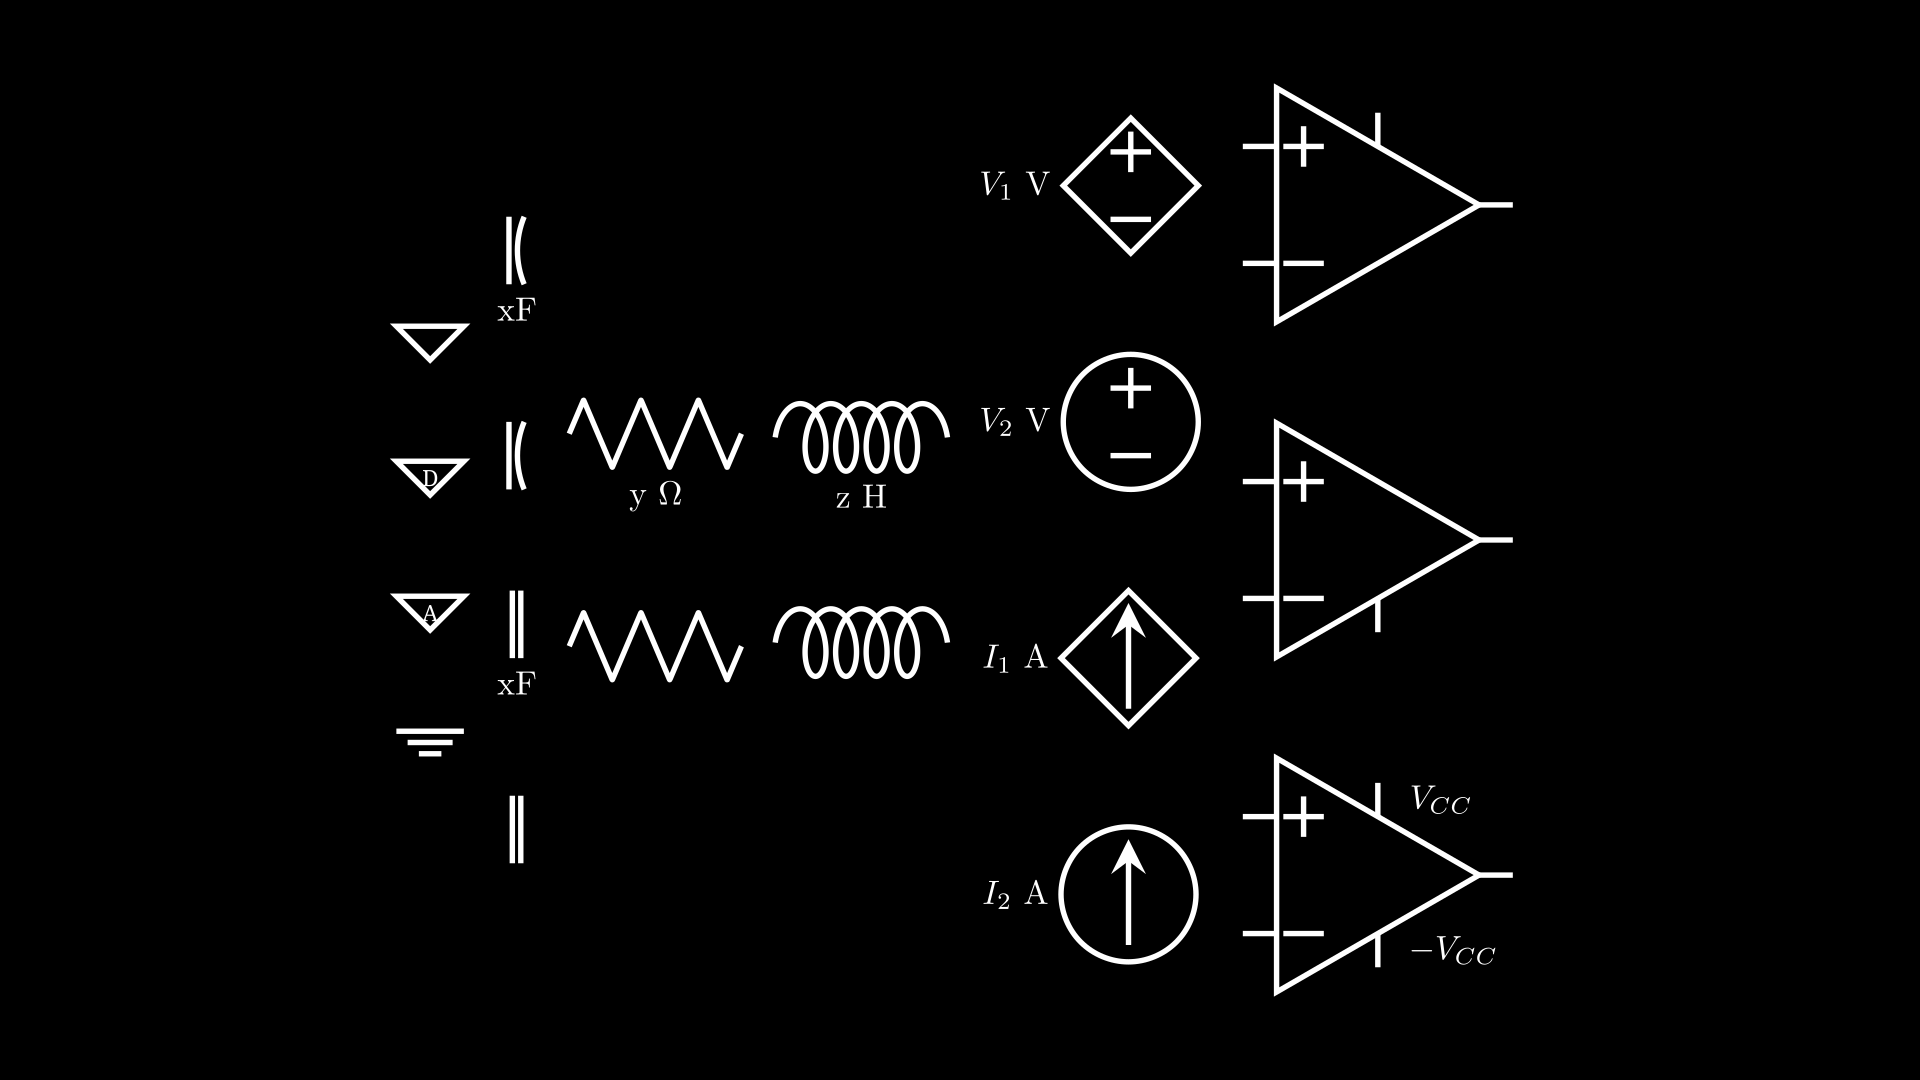
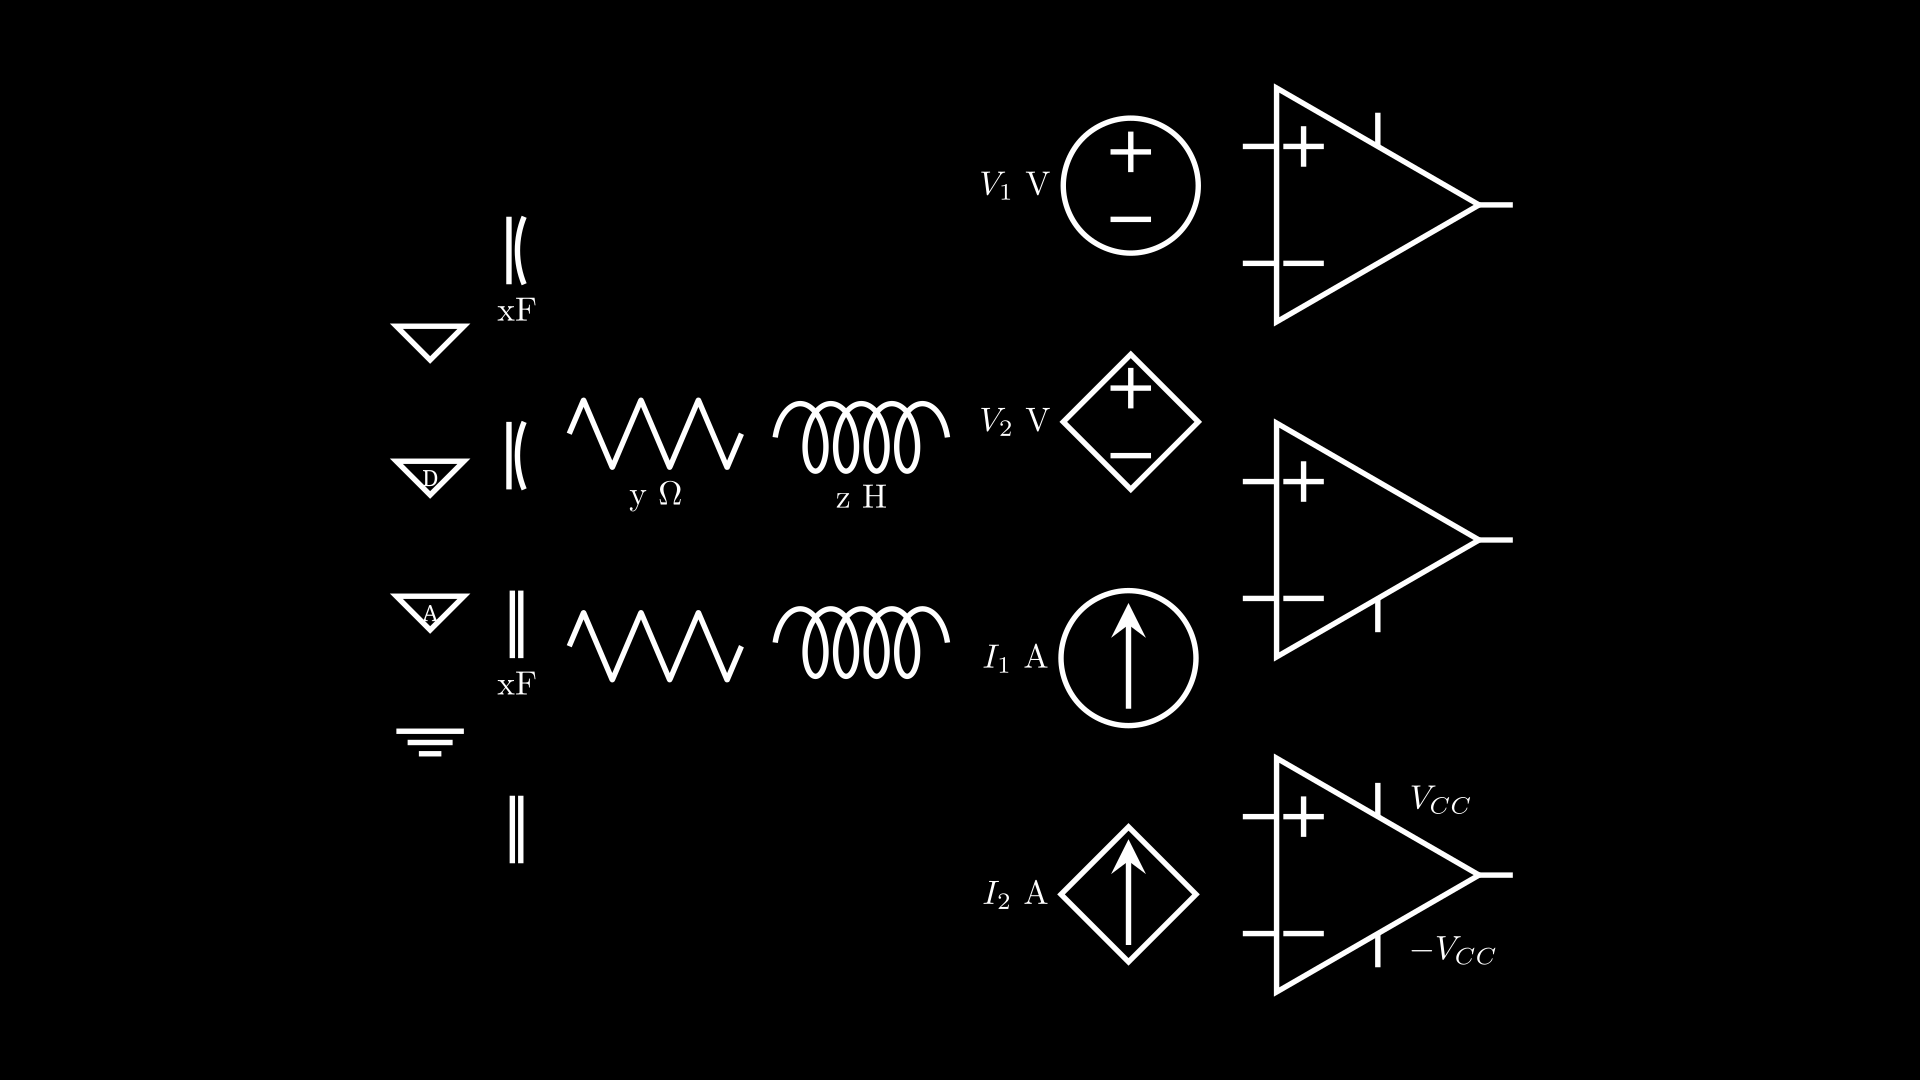
fixed a few bugs in the library, and removed pins off capacitor

diff --git a/src/manim_circuit/manim_circuit.py b/src/manim_circuit/manim_circuit.py
@@ -1,4 +1,5 @@
 from manim import *
+import math
 
 
 class Inductor(VMobject):
@@ -342,28 +343,26 @@ class Source(VMobject):
         value,
         label=True,
         direction=LEFT,
-        dependent=False,
+        dependent=True,
         **kwargs,
     ):
         # initialize the vmobject
         super().__init__(**kwargs)
         self._direction = direction
 
-        if dependent is True or type(value) is int or type(value) is float:
-            self.main_body = VGroup(
-                Circle().set_stroke(WHITE),
-            )
+        # If value is a number or override dependent is False
+        if dependent is False or type(value) is int or type(value) is float:
+            self.main_body = Circle().set_stroke(WHITE)
         else:
-            self.main_body = VGroup(
+            self.main_body = (
                 Square().set_stroke(WHITE).rotate(45 * DEGREES).scale(1 / np.sqrt(2))
             )
 
-        # Add the middle symbols first
-        self.add(mobject_group.scale(0.5))
+        # Add the scaled symbols first
+        self.add(mobject_group.scale(0.5, about_point=self.main_body.get_center()))
 
-        # scale it down first and then add it onto the VMobject
-        self.main_body.scale(0.5)
-        self.add(self.main_body)
+        # Scale it down first and then add it onto the VMobject
+        self.add(self.main_body.scale(0.5))
 
         if label:
             self.label = (
@@ -402,21 +401,25 @@ class Source(VMobject):
 
 
 class VoltageSource(Source):
-    def __init__(self, value=1, label=True, direction=LEFT, dependent=False, **kwargs):
+    def __init__(self, value=1, label=True, direction=LEFT, dependent=True, **kwargs):
         # + and -
         markings = VGroup()
         markings.add(Line(DOWN * 0.3, UP * 0.3).shift(UP * 0.5))
         markings.add(Line(LEFT * 0.3, RIGHT * 0.3).shift(UP * 0.5))
         markings.add(Line(LEFT * 0.3, RIGHT * 0.3).shift(DOWN * 0.5))
 
-        super().__init__(markings, letter="V", value=value, **kwargs)
+        super().__init__(
+            markings, letter="V", value=value, dependent=dependent, **kwargs
+        )
 
 
 class CurrentSource(Source):
-    def __init__(self, value=1, label=True, direction=LEFT, dependent=False, **kwargs):
+    def __init__(self, value=1, label=True, direction=LEFT, dependent=True, **kwargs):
         # Arrow
         markings = Line(DOWN * 0.75, UP * 0.75).add_tip(tip_shape=StealthTip)
-        super().__init__(markings, letter="A", value=value, **kwargs)
+        super().__init__(
+            markings, letter="A", value=value, dependent=dependent, **kwargs
+        )
 
 
 class Circuit(VMobject):
@@ -439,9 +442,6 @@ class Circuit(VMobject):
         for component in args:
             self.component_list.add(component)
 
-    # line_intersection annoyingly (but true to its name),
-    # will get the intersection between two lines. NOT segments
-    # which is unfortunate, considering that's what "wires" are.
     def validate_line_intersection(self, l1, l2):
         try:
             preliminary_result = line_intersection(l1, l2)
@@ -458,55 +458,93 @@ class Circuit(VMobject):
         y_range2 = [l2[0][1], l2[1][1]]
         y_range2.sort()
 
+        tolerance = 1e-4
+
         # TODO In the future, ideally a different implementation that's
         # a bit more mathematical, (and less brute-force) will be used
         if (
             (
                 (
                     x_range1[1] > preliminary_result[0]
-                    or np.allclose([preliminary_result[0]], [x_range1[1]])
+                    or math.isclose(
+                        preliminary_result[0],
+                        x_range1[1],
+                        rel_tol=tolerance,
+                    )
                 )
                 and (
                     preliminary_result[0] > x_range1[0]
-                    or np.allclose([preliminary_result[0]], [x_range1[0]])
+                    or math.isclose(
+                        preliminary_result[0],
+                        x_range1[0],
+                        rel_tol=tolerance,
+                    )
                 )
             )
             and (
                 (
                     x_range2[1] > preliminary_result[0]
-                    or np.allclose([preliminary_result[0]], [x_range2[1]])
+                    or math.isclose(
+                        preliminary_result[0],
+                        x_range2[1],
+                        rel_tol=tolerance,
+                    )
                 )
                 and (
                     preliminary_result[0] > x_range2[0]
-                    or np.allclose([preliminary_result[0]], [x_range2[0]])
+                    or math.isclose(
+                        preliminary_result[0],
+                        x_range2[0],
+                        rel_tol=tolerance,
+                    )
                 )
             )
             and (
                 (
                     y_range1[1] > preliminary_result[1]
-                    or np.allclose([preliminary_result[1]], [y_range1[1]])
+                    or math.isclose(
+                        preliminary_result[1],
+                        y_range1[1],
+                        rel_tol=tolerance,
+                    )
                 )
                 and (
                     preliminary_result[1] > y_range1[0]
-                    or np.allclose([preliminary_result[1]], [y_range1[0]])
+                    or math.isclose(
+                        preliminary_result[1],
+                        y_range1[0],
+                        rel_tol=tolerance,
+                    )
                 )
             )
             and (
                 (
                     y_range2[1] > preliminary_result[1]
-                    or np.allclose([y_range2[1]], [preliminary_result[1]])
+                    or math.isclose(
+                        y_range2[1],
+                        preliminary_result[1],
+                        rel_tol=tolerance,
+                    )
                 )
                 and (
                     preliminary_result[1] > y_range2[0]
-                    or np.allclose([preliminary_result[1]], [y_range2[0]])
+                    or math.isclose(
+                        preliminary_result[1],
+                        y_range2[0],
+                        rel_tol=tolerance,
+                    )
                 )
             )
             # Check if the intersection lies on one of the ends
             and (
-                np.allclose(l1[0], preliminary_result)
-                or np.allclose(l1[1], preliminary_result)
-                or np.allclose(l2[0], preliminary_result)
-                or np.allclose(l2[1], preliminary_result)
+                np.allclose(
+                    l1[0],
+                    preliminary_result,
+                    rtol=tolerance,
+                )
+                or np.allclose(l1[1], preliminary_result, rtol=tolerance)
+                or np.allclose(l2[0], preliminary_result, rtol=tolerance)
+                or np.allclose(l2[1], preliminary_result, rtol=tolerance)
             )
         ):
             return preliminary_result
@@ -533,7 +571,8 @@ class Circuit(VMobject):
                 # NOTE type(wire) == VMobject
                 for wire in node.line_wires:
                     intersect = self.validate_line_intersection(
-                        [end1, end2], wire.get_anchors()
+                        [end1, end2],
+                        wire.get_anchors(),
                     )
 
                     # Found intersection.
